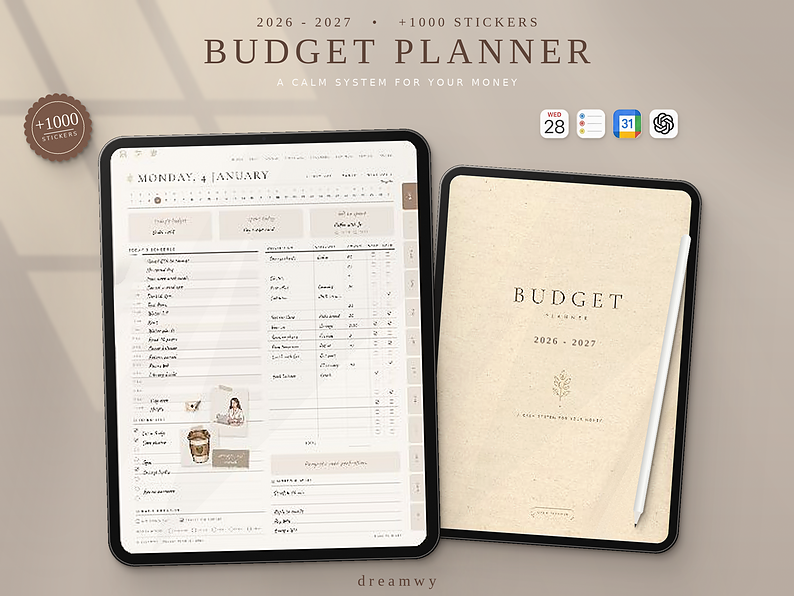
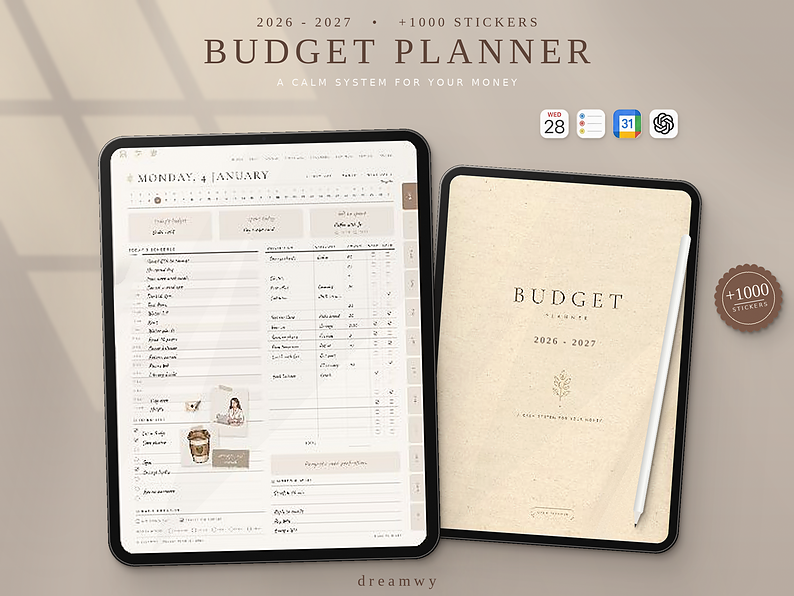
Budget mockup: sticker badge to the right middle
Claude-Session: https://claude.ai/code/session_015ZGVvYxuW9E1f2kNKHXQzt

Changed region(s): [[0.8766, 0.4228, 0.9975, 0.5738], [0.0302, 0.151, 0.1209, 0.302]]

diff --git a/mockup/make_budget_mockup.py b/mockup/make_budget_mockup.py
@@ -255,7 +255,7 @@ canvas.alpha_composite(pen, (1905, 705))
 
 
 # "+1000 STICKERS" seal
-sx, sy, sr = 175, 385, 97
+sx, sy, sr = 2262, 900, 97
 seal = Image.new("RGBA", (sr * 2 + 40, sr * 2 + 40), (0, 0, 0, 0))
 sd = ImageDraw.Draw(seal)
 sc = sr + 20
